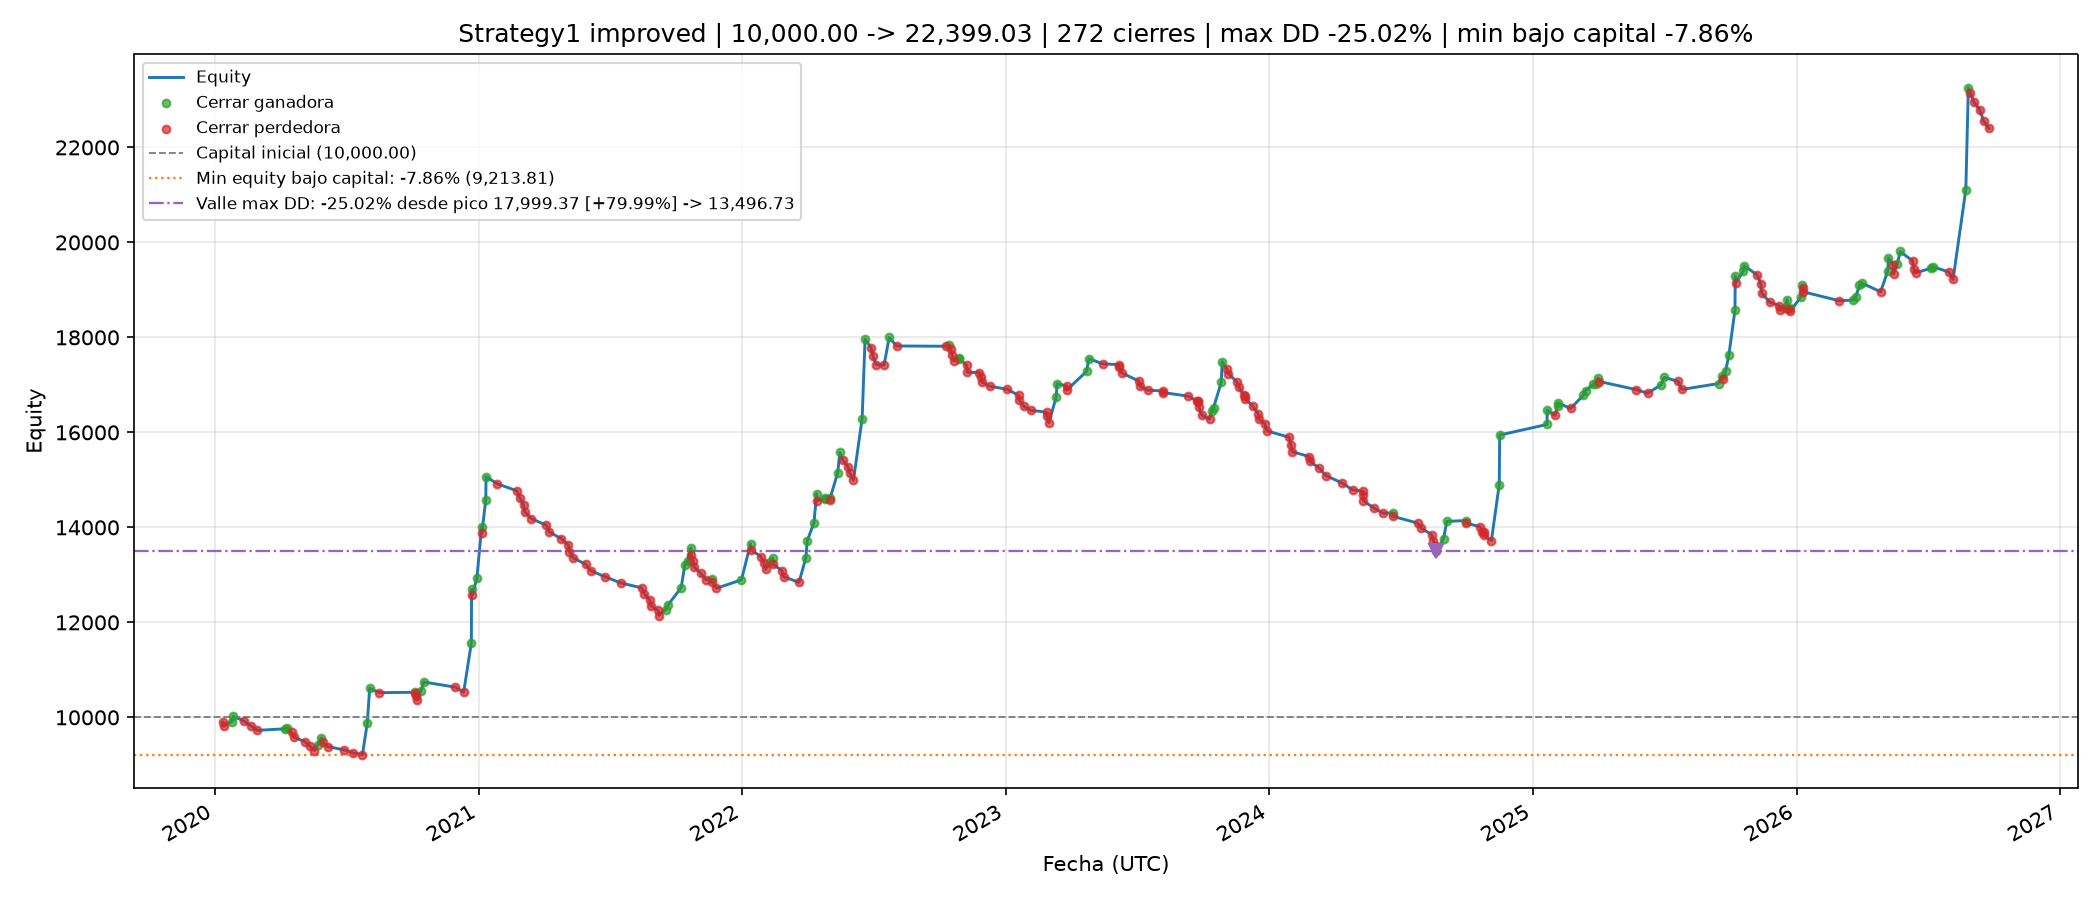
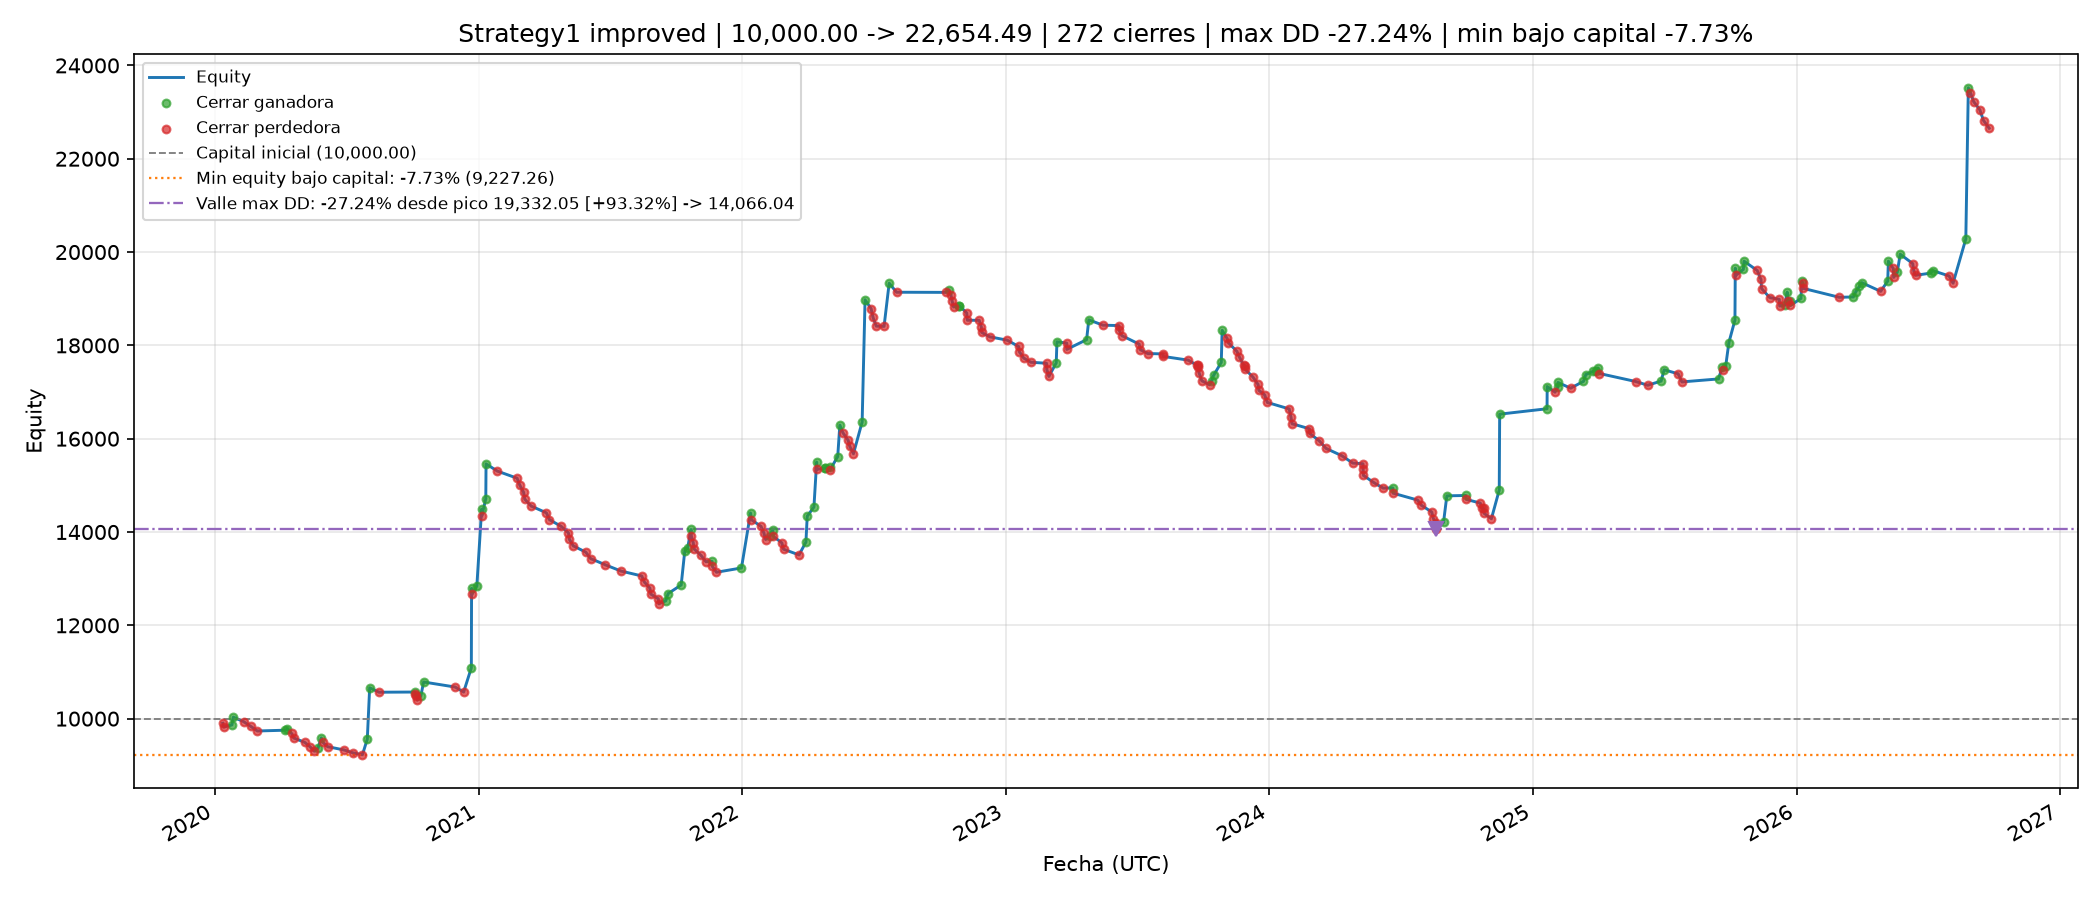
update

diff --git a/backend/services/backtest/bin/legacy/strategy/strategy1.py b/backend/services/backtest/bin/legacy/strategy/strategy1.py
@@ -90,7 +90,7 @@ class Config:
     adx_threshold: float = 25.0
     atr_len: int = 14
 
-    close_on_30m_pct: float = 50.0  # % de la posición RESTANTE a cerrar ante contra-señal 30m
+    close_on_30m_pct: float = 90.0  # % de la posición RESTANTE a cerrar ante contra-señal 30m
 
     initial_capital: float = 10_000.0
     commission_bps: float = 0.0
